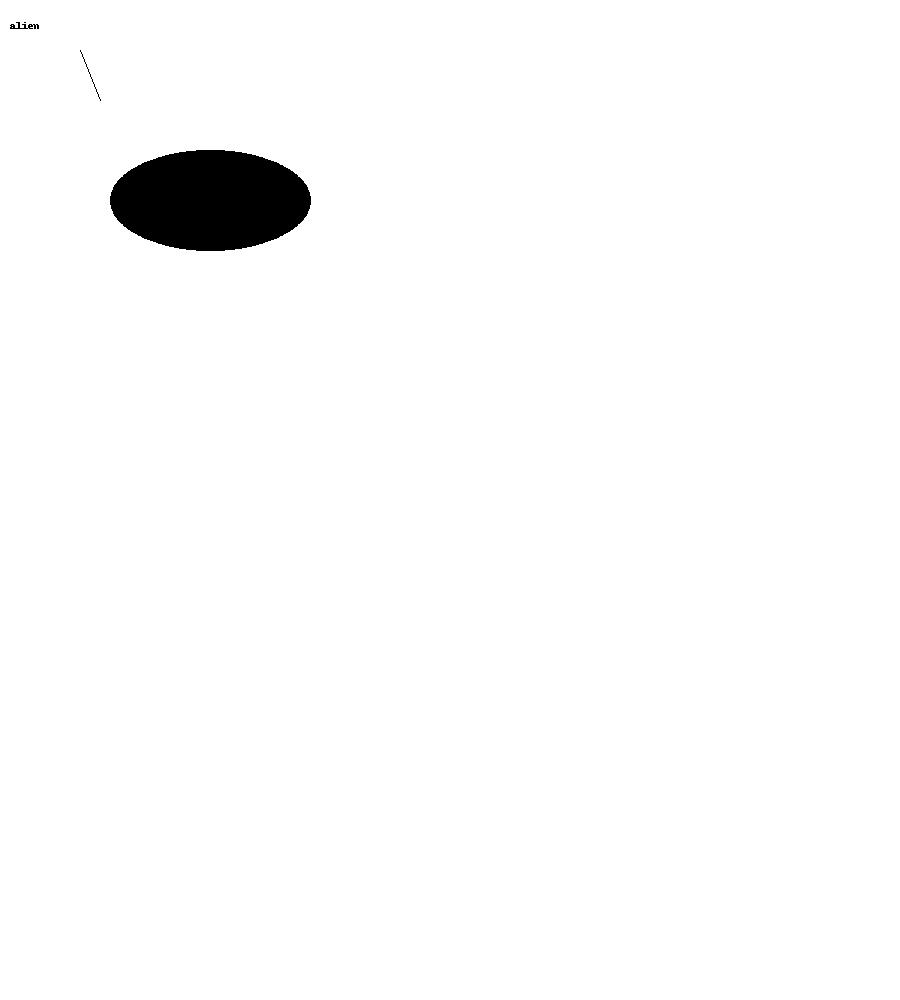
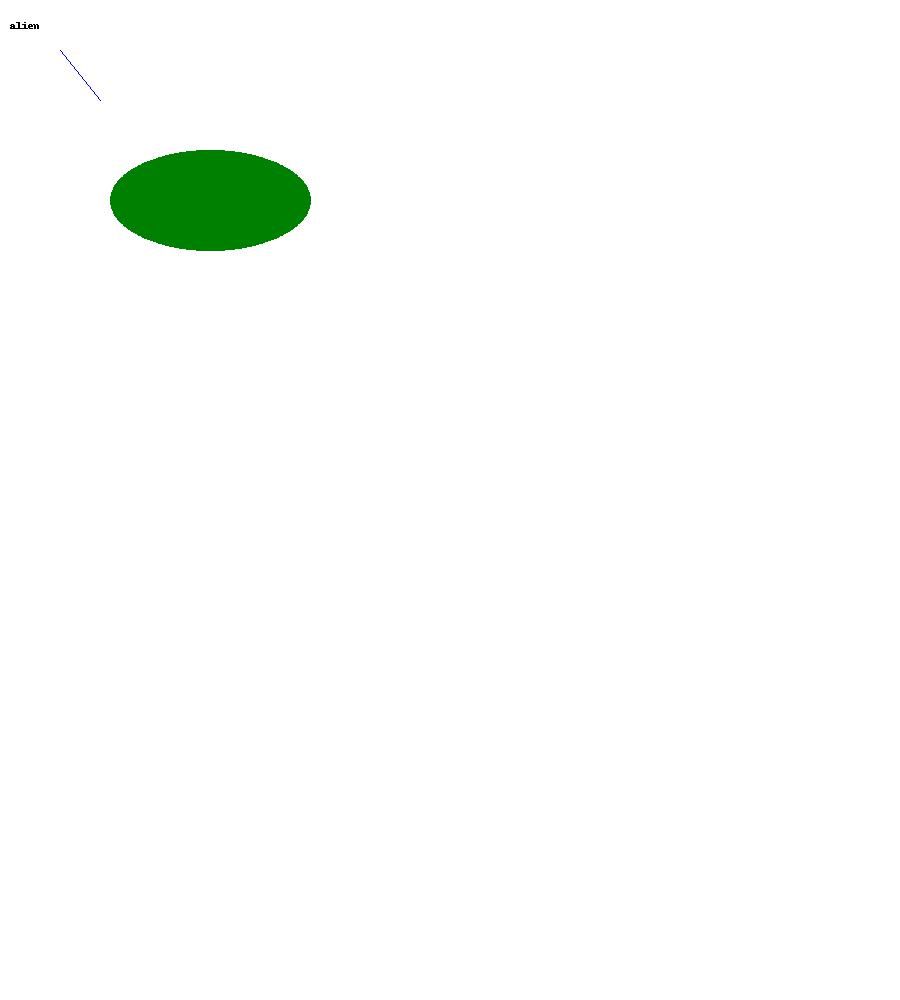
fixed errors and deeply inproved animation program used ffmpeg to generate movie

Changed region(s): [[0.1244, 0.124, 0.3422, 0.279]]

diff --git a/animationprogram.py b/animationprogram.py
@@ -13,7 +13,6 @@ import os
 from PIL import Image
 from PIL import ImageDraw
 
-
 #this gets window ready
 window=tk.Tk()
 window.title('Animation')
@@ -25,7 +24,7 @@ c = tk.Canvas(window, height=iheight, width=iwidth)
 c.pack()
 
 image1 = Image.new("RGB", (iwidth, iheight), 'white')
-draw = ImageDraw.Draw(image1)
+
 
 
 #this makes alien
@@ -34,14 +33,19 @@ str1 = "alien"
 #draw.ellipse([100, 150, 300, 250],'black')
 #draw.line([50,50,100,100],'black')
 
-
-draw.line([50+i*10,50,100,100],'black')
 for i in range(1,4):
+    draw = ImageDraw.Draw(image1)
+    draw.line([50+i*10,50,100,100],'blue')
+#for i in range(1,4):
     draw.text((10, 20), str1, 'black')
-    draw.ellipse([100+i*10, 150, 300+i*10, 250],'black')
+    draw.ellipse([100+i*10, 150, 300+i*10, 250],'green')
     #draw.line([50+i*10,50,100,100],'black')
     filename = "animation/does_it_work"+str(i)+".jpg"
-    image1.save(filename)
+    image1.save(filename)  
+    del draw
 
-
+#ffmpeg documentation https://ffmpeg.org/ffmpeg.html#Examples-1
+#ffmpeg command    
+#ffmpeg -f image2 -framerate 12 -i foo-%03d.jpeg -s WxH foo.avi
+#ffmpeg -f image2 -framerate 12 -i does_it_work%d.jpg foo.avi
 
